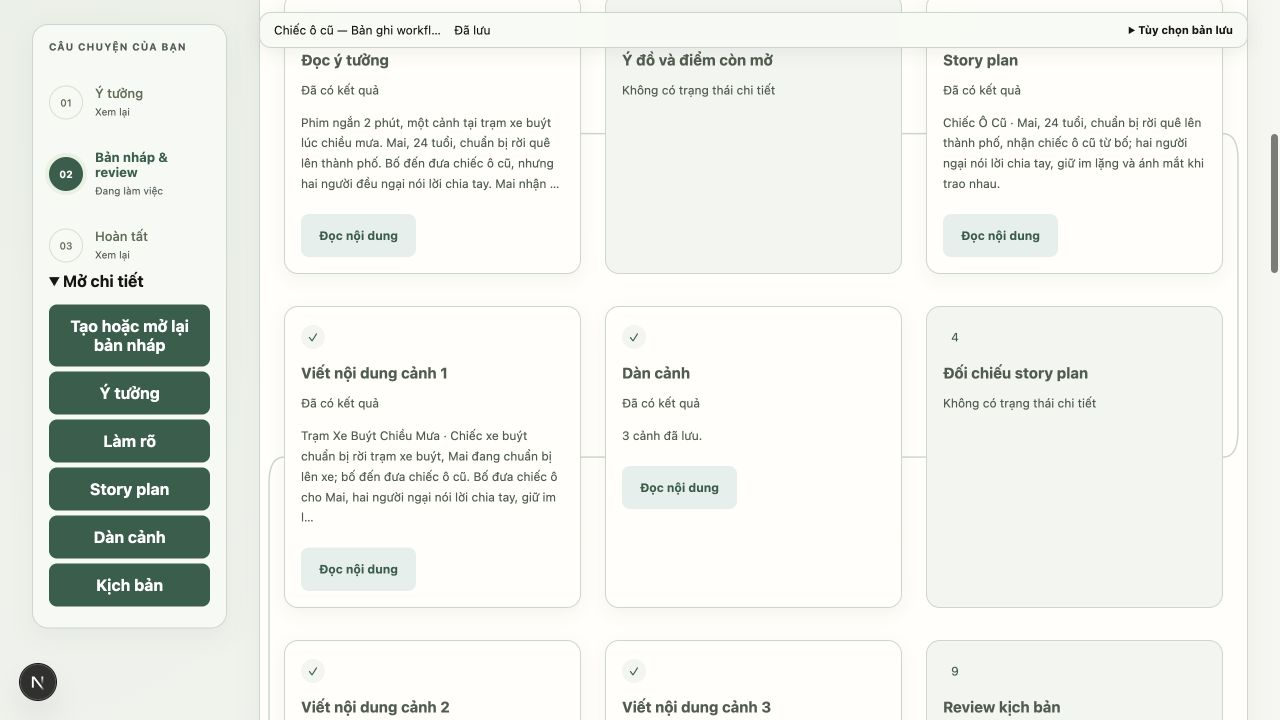
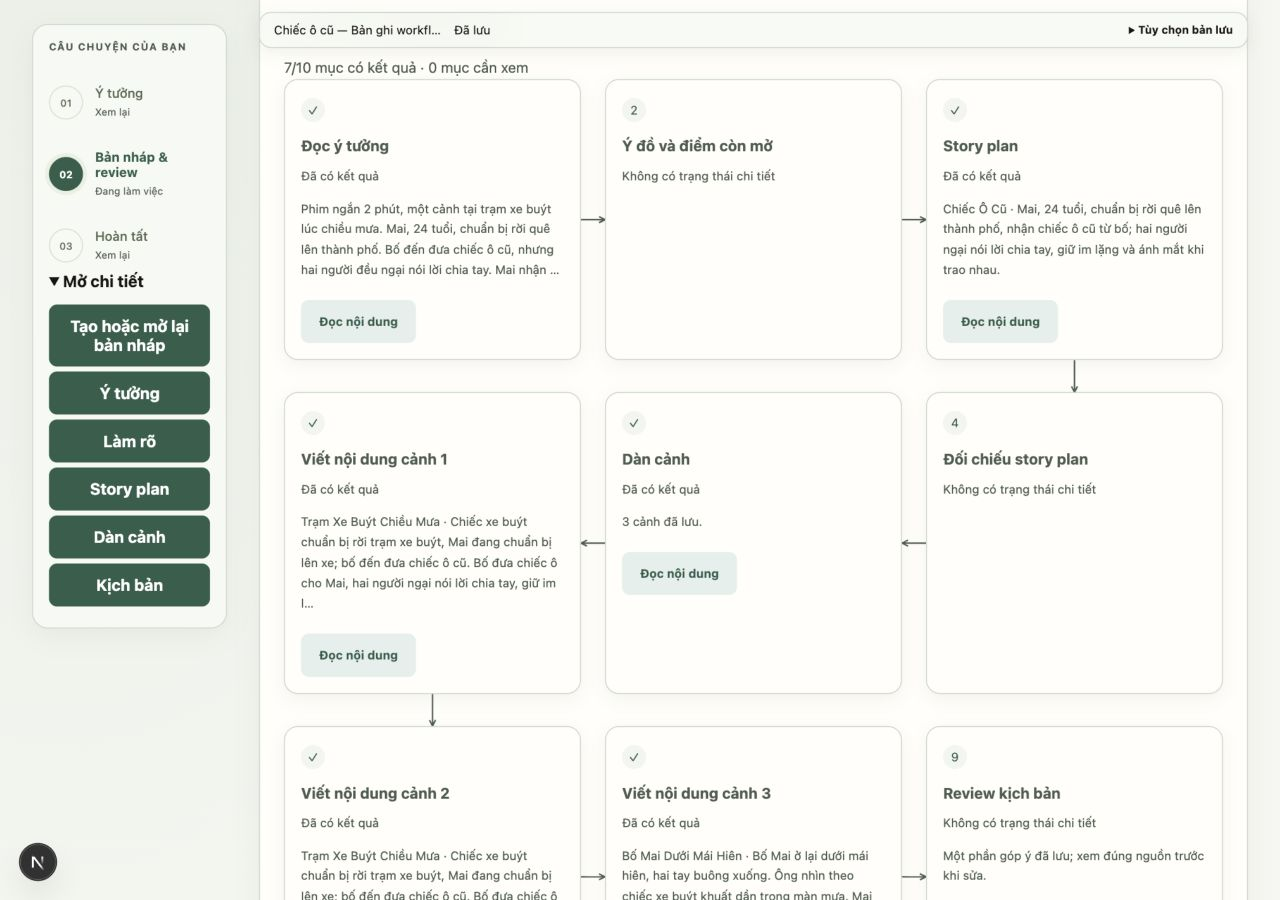
fix: add directional card arrows and consistent hover styling

diff --git a/frontend/app/DraftWorkflow.tsx b/frontend/app/DraftWorkflow.tsx
@@ -1,20 +1,21 @@
 'use client';
-import {useEffect,useRef,useState} from 'react';
+import {useEffect,useRef,useState,useId} from 'react';
 import type {DraftRun,Candidate} from './draftRunsApi';
 import {cardResult,workflowLabels,workflowStatusLabels,type WorkflowItem} from './draftWorkflowState';
 import './draftWorkflow.css';
 export function DraftWorkflow({run,candidate,onRead}:{run:DraftRun;candidate:Candidate|null;onRead:(target:string)=>void}){
  const list=useRef<HTMLOListElement>(null),[paths,setPaths]=useState<string[]>([]);
+ const arrowId='workflow-arrow-'+useId().replace(/:/g,'');
  const items=run.workflow_items??[];
  useEffect(()=>{
   const el=list.current;if(!el)return;let frame=0;
-  const draw=()=>{cancelAnimationFrame(frame);frame=requestAnimationFrame(()=>{const box=el.getBoundingClientRect();const cards=[...el.children].map(n=>n.getBoundingClientRect());setPaths(cards.slice(0,-1).map((a,i)=>{const b=cards[i+1];if(Math.abs(a.top-b.top)<5){const right=b.left>a.left,x=(right?a.right:a.left)-box.left,xx=(right?b.left:b.right)-box.left,y=a.top+a.height/2-box.top;return `M${x},${y} L${xx},${y}`;}if(Math.abs(a.left-b.left)<5&&box.width>620){const right=Math.floor(i/3)%2===0,x=(right?a.right:a.left)-box.left,y=a.top+a.height/2-box.top,yy=b.top+b.height/2-box.top,turn=x+(right?15:-15);return `M${x},${y} C${turn},${y} ${turn},${y+20} ${turn},${y+28} L${turn},${yy-28} C${turn},${yy-20} ${turn},${yy} ${x},${yy}`;}const x=a.left+a.width/2-box.left,xx=b.left+b.width/2-box.left,y=a.bottom-box.top,yy=b.top-box.top;return `M${x},${y} C${x},${(y+yy)/2} ${xx},${(y+yy)/2} ${xx},${yy}`;}));});};
+  const draw=()=>{cancelAnimationFrame(frame);frame=requestAnimationFrame(()=>{const box=el.getBoundingClientRect();const cards=[...el.children].map(n=>n.getBoundingClientRect());setPaths(cards.slice(0,-1).map((a,i)=>{const b=cards[i+1];if(Math.abs(a.top-b.top)<5){const right=b.left>a.left,x=(right?a.right:a.left)-box.left,xx=(right?b.left:b.right)-box.left,y=a.top+a.height/2-box.top;return `M${x},${y} L${xx},${y}`;}const x=a.left+a.width/2-box.left,xx=b.left+b.width/2-box.left,y=a.bottom-box.top,yy=b.top-box.top;return `M${x},${y} C${x},${(y+yy)/2} ${xx},${(y+yy)/2} ${xx},${yy}`;}));});};
   const observer=new ResizeObserver(draw);observer.observe(el);for(const child of el.children)observer.observe(child);draw();return()=>{observer.disconnect();cancelAnimationFrame(frame)};
  },[items]);
  if(!items.length)return <p className="storage-note">Lượt này chưa có tiến độ chi tiết. Xem trạng thái và bản đã lưu bên dưới.</p>;
  return <section className="draft-workflow" aria-label="Tiến độ tạo nháp theo từng bước">
   <p className="storage-note">{items.filter(i=>i.status==='completed').length}/{items.length} mục có kết quả · {items.filter(i=>['warning','failed','interrupted','needs_input'].includes(i.status)).length} mục cần xem</p>
-  <div className="draft-workflow-map"><svg aria-hidden="true" className="draft-workflow-route">{paths.map((d,i)=><path key={i} d={d}/>)}</svg>
+  <div className="draft-workflow-map"><svg aria-hidden="true" className="draft-workflow-route"><defs><marker id={arrowId} markerWidth="8" markerHeight="8" refX="7" refY="4" orient="auto" markerUnits="userSpaceOnUse"><path d="M1,1 L7,4 L1,7"/></marker></defs>{paths.map((d,i)=><path key={i} d={d} markerEnd={`url(#${arrowId})`}/>)}</svg>
    <ol ref={list} className="draft-workflow-cards">{items.map((item,index)=><WorkflowCard key={item.id} item={item} index={index} candidate={candidate} onRead={onRead}/>)}</ol>
   </div>
  </section>;

diff --git a/frontend/app/draftWorkflow.css b/frontend/app/draftWorkflow.css
@@ -1,3 +1,6 @@
-.draft-workflow{container-type:inline-size;margin:20px 0}.draft-workflow-map{position:relative}.draft-workflow-route{position:absolute;inset:0;width:100%;height:100%;overflow:visible;pointer-events:none}.draft-workflow-route path{stroke:var(--line);stroke-width:1.5;fill:none}.draft-workflow-cards{position:relative;list-style:none!important;display:grid;grid-template-columns:repeat(3,minmax(0,1fr));gap:32px 24px;margin:0!important;padding:0!important}.draft-workflow-card{min-width:0;padding:16px;background:var(--panel);border:1px solid var(--line);border-radius:14px;box-shadow:0 5px 16px rgb(30 55 38 / 5%);overflow-wrap:anywhere}.draft-workflow-card.is-running{border-color:var(--accent);box-shadow:0 0 0 2px var(--soft)}.draft-workflow-number{display:inline-grid;place-items:center;min-width:24px;height:24px;border-radius:50%;background:var(--soft);color:var(--accent);font-size:12px}.draft-workflow-card h3{font-size:15px;margin:12px 0 8px}.draft-workflow-card p{font-size:12px;line-height:1.7}.draft-workflow-status{color:var(--muted)}.draft-workflow-preview{white-space:pre-wrap}.draft-workflow-card ul{padding-left:16px;font-size:12px}.draft-workflow-card button{margin-top:8px;font-size:12px}.draft-workflow-card.is-pending,.draft-workflow-card.is-skipped,.draft-workflow-card.is-unknown{box-shadow:none;background:var(--soft)}
+.draft-workflow{container-type:inline-size;margin:20px 0}.draft-workflow-map{position:relative}.draft-workflow-route{position:absolute;inset:0;width:100%;height:100%;overflow:visible;pointer-events:none}.draft-workflow-route path{stroke:var(--muted);stroke-width:1.5;fill:none}.draft-workflow-cards{position:relative;list-style:none!important;display:grid;grid-template-columns:repeat(3,minmax(0,1fr));gap:32px 24px;margin:0!important;padding:0!important}.draft-workflow-card{min-width:0;padding:16px;background:var(--panel);border:1px solid var(--line);border-radius:14px;box-shadow:0 5px 16px rgb(30 55 38 / 5%);overflow-wrap:anywhere;transition:box-shadow 180ms ease,border-color 180ms ease}.draft-workflow-card.is-running .draft-workflow-status{font-weight:600}.draft-workflow-card:focus-within{border-color:var(--accent);box-shadow:0 8px 22px rgb(30 55 38 / 12%)}.draft-workflow-number{display:inline-grid;place-items:center;min-width:24px;height:24px;border-radius:50%;background:var(--soft);color:var(--accent);font-size:12px}.draft-workflow-card h3{font-size:15px;margin:12px 0 8px}.draft-workflow-card p{font-size:12px;line-height:1.7}.draft-workflow-status{color:var(--muted)}.draft-workflow-preview{white-space:pre-wrap}.draft-workflow-card ul{padding-left:16px;font-size:12px}.draft-workflow-card button{margin-top:8px;font-size:12px}
 @container(max-width:640px){.draft-workflow-cards{grid-template-columns:minmax(0,1fr);padding:0 12px!important;gap:24px}.draft-workflow-card{grid-column:1!important;grid-row:auto!important;width:calc(100% - 14px)}.draft-workflow-card:nth-child(even){justify-self:end}}
 @media(forced-colors:active){.draft-workflow-card{border:1px solid CanvasText;box-shadow:none}.draft-workflow-route path{stroke:CanvasText}}
+
+@media(hover:hover){.draft-workflow-card:hover{border-color:var(--accent);box-shadow:0 8px 22px rgb(30 55 38 / 12%)}}
+@media(prefers-reduced-motion:reduce){.draft-workflow-card{transition:none}}

diff --git a/docs/testing/draft-workflow-cards-2026-10-29.md b/docs/testing/draft-workflow-cards-2026-10-29.md
@@ -22,3 +22,9 @@ Browser kiểm tra trên Next.js/FastAPI thực, DB demo riêng từ lần ghi w
 ![Mobile 320px](assets/draft-workflow-cards/mobile-320.jpg)
 
 DR-05/DR-06 tiếp tục skeleton, thinking, reveal và nghiệm thu phục hồi sâu hơn; DR-07/DR-08 tiếp tục hợp nhất quyết định và reader. Mốc này không nghiệm thu model thật, thiết bị/IME/screen reader hoặc toàn luồng phát hành QA-01. Browser lần này kiểm chứng bố cục và đọc run cũ, không thay nghiệm thu pipeline live mới.
+
+## Tinh chỉnh styling theo phản hồi
+
+Connector có đầu mũi tên theo chiều workflow. Điểm xuống hàng nối từ đáy card cuối hàng trên tới đỉnh card cùng cột bên dưới bằng mũi tên thẳng xuống, không vòng bên hông. Mọi trạng thái card dùng cùng nền, viền và bóng cơ bản; trạng thái vẫn thể hiện bằng chữ và dấu. Hover/focus nhấn viền và bóng mà không dịch chuyển vị trí card. Reduced motion tắt transition.
+
+TypeScript đạt sau chỉnh sửa. Browser xác nhận 10 card có cùng màu nền, 9 mũi tên, hai điểm xuống hàng giữ nguyên tọa độ x; tại 320px scrollWidth vẫn 320. Hover đã thay đổi bóng card. Các ảnh phía trên đã cập nhật theo styling mới. Không đổi logic dữ liệu hoặc gọi model trong lượt này.
